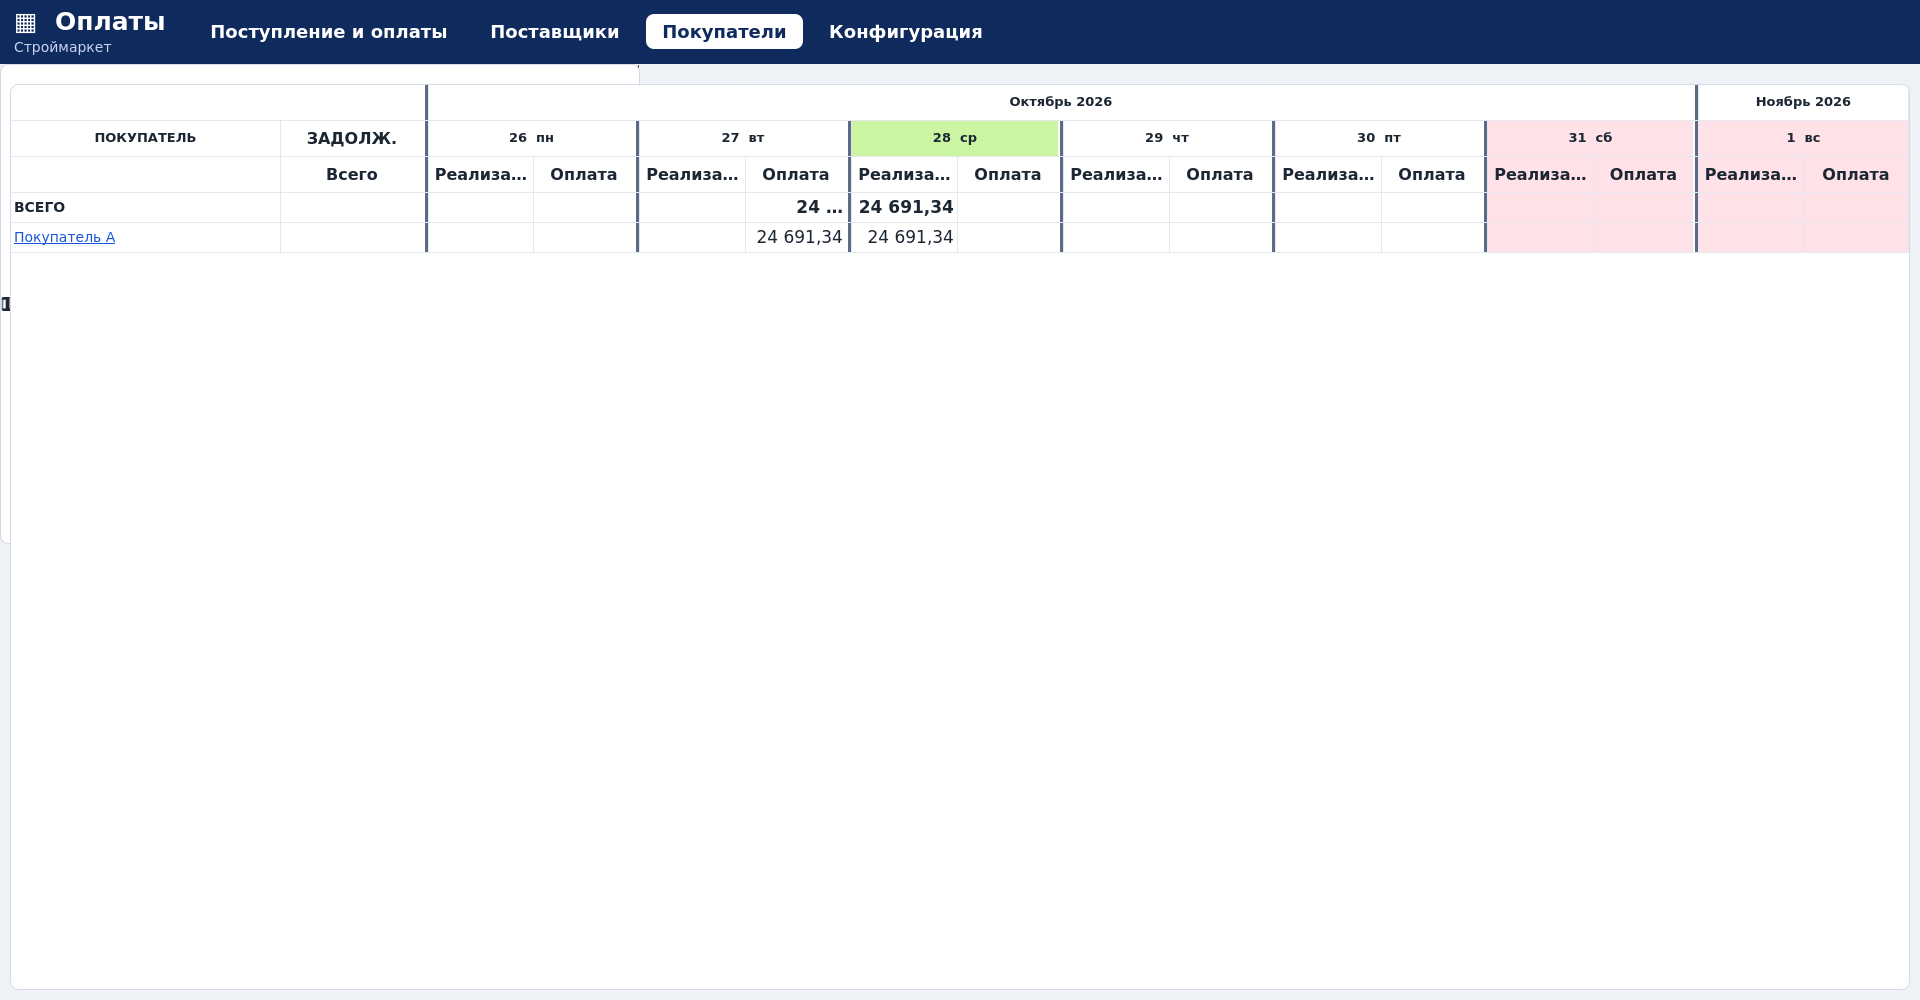
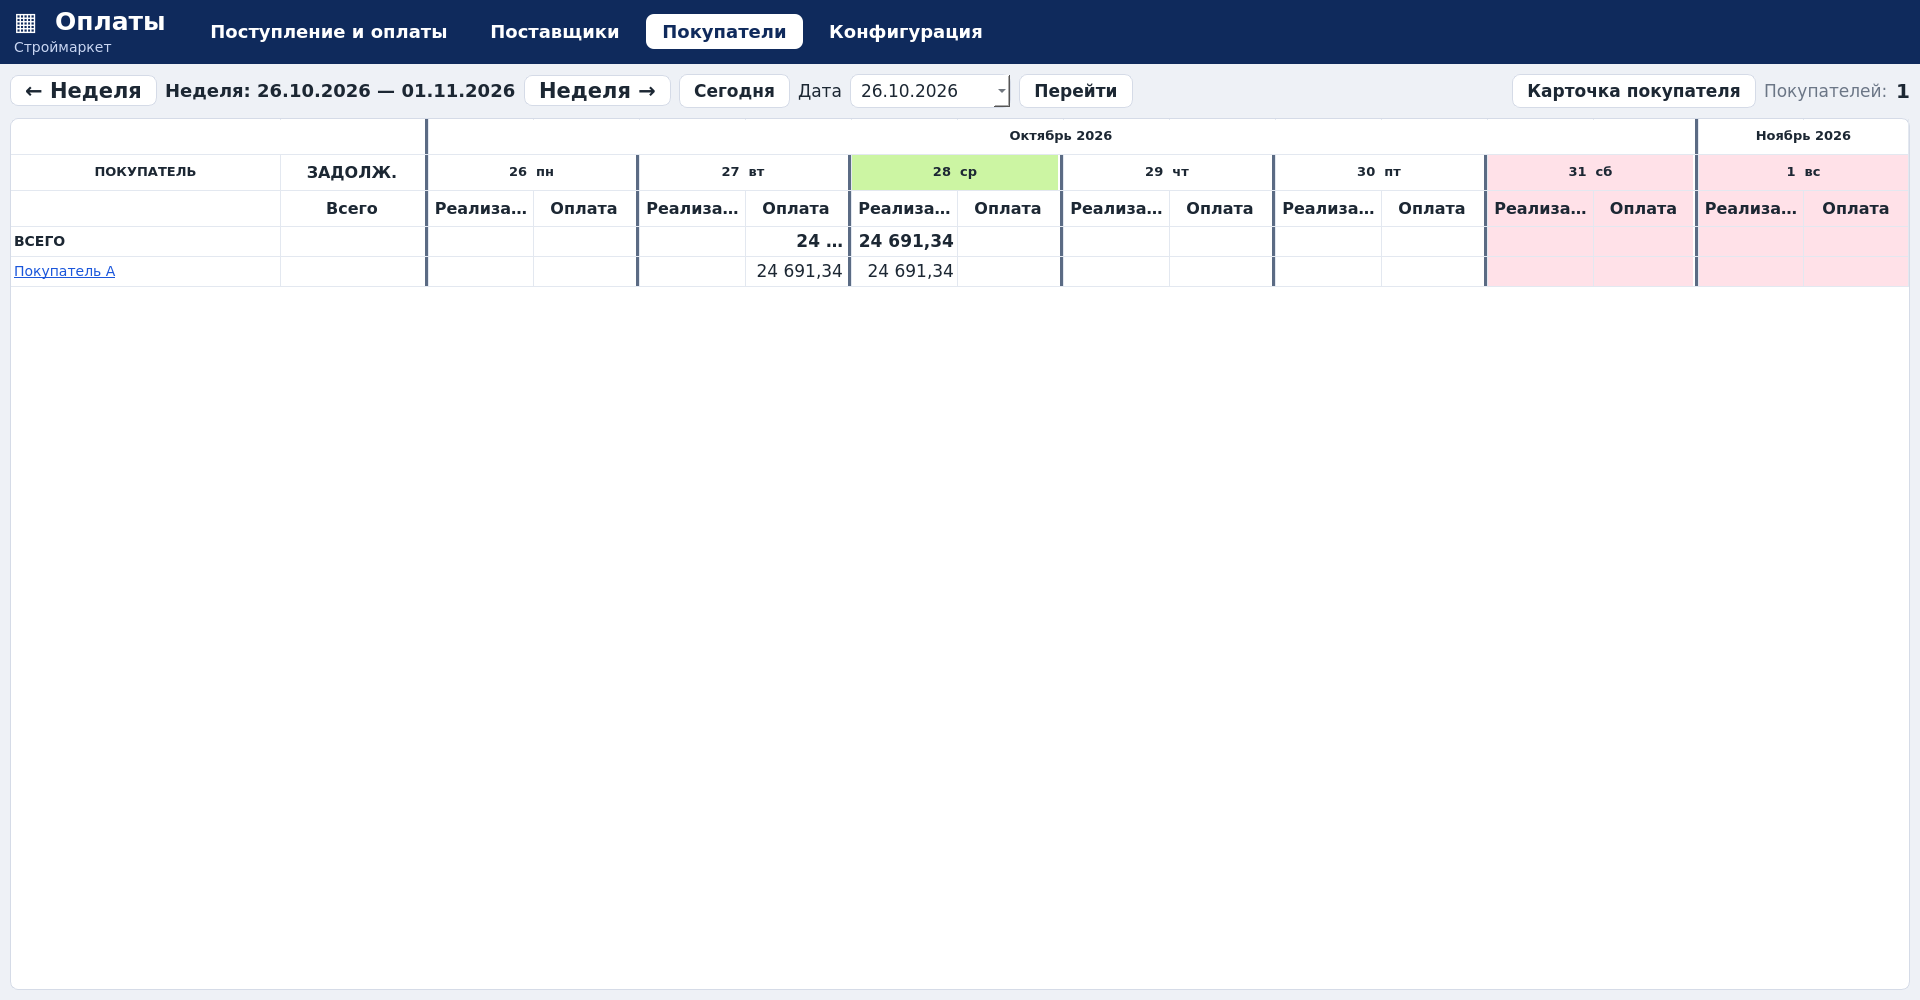
v0.16.0: убраны артефакты отрисовки — тулбар снова на обычной раскладке

diff --git a/src/oplata/widgets.py b/src/oplata/widgets.py
@@ -4,14 +4,12 @@ from __future__ import annotations
 
 from decimal import Decimal, InvalidOperation
 
-from PySide6.QtCore import QDate, QEvent, QObject, QPoint, QRect, QSize, Qt, QTimer
+from PySide6.QtCore import QDate, QEvent, QObject, Qt, QTimer
 from PySide6.QtGui import QColor, QFocusEvent
 from PySide6.QtWidgets import (
     QDateEdit,
     QFrame,
     QLabel,
-    QLayout,
-    QLayoutItem,
     QLineEdit,
     QPushButton,
     QSizePolicy,
@@ -276,87 +274,6 @@ def arrow_button(
 
 
 # ------------------------------------------------------- подсветка строки
-class FlowLayout(QLayout):
-    """Раскладка «переносом по строкам» — как текст в абзаце.
-
-    Нужна тулбару недельной таблицы (v0.15.0): кнопок и подписей там
-    много, и при узком окне они должны переноситься на следующую
-    строку, а не уезжать за край.
-    """
-
-    def __init__(self, parent=None, spacing: int = 8) -> None:
-        super().__init__(parent)
-        self.setSpacing(spacing)
-        self._items: list[QLayoutItem] = []
-
-    # --- обязательные методы QLayout ---
-    def addItem(self, item):
-        self._items.append(item)
-
-    def count(self):
-        return len(self._items)
-
-    def itemAt(self, index):
-        if 0 <= index < len(self._items):
-            return self._items[index]
-        return None
-
-    def takeAt(self, index):
-        if 0 <= index < len(self._items):
-            return self._items.pop(index)
-        return None
-
-    def expandingDirections(self):
-        return Qt.Orientation(0)
-
-    def hasHeightForWidth(self):
-        return True
-
-    def heightForWidth(self, width):
-        return self._layout(QRect(0, 0, width, 0), apply_geometry=False)
-
-    def setGeometry(self, rect):
-        super().setGeometry(rect)
-        self._layout(rect, apply_geometry=True)
-
-    def sizeHint(self):
-        return self.minimumSize()
-
-    def minimumSize(self):
-        size = QSize()
-        for item in self._items:
-            size = size.expandedTo(item.minimumSize())
-        margins = self.contentsMargins()
-        return size + QSize(
-            margins.left() + margins.right(), margins.top() + margins.bottom()
-        )
-
-    # --- раскладка ---
-    def _layout(self, rect, apply_geometry):
-        margins = self.contentsMargins()
-        available = QRect(rect)
-        available.adjust(
-            margins.left(), margins.top(), -margins.right(), -margins.bottom()
-        )
-        x, y = available.x(), available.y()
-        row_height = 0
-        spacing = self.spacing()
-        for item in self._items:
-            widget = item.widget()
-            if widget is not None and not widget.isVisible():
-                continue
-            hint = item.sizeHint()
-            if x > available.x() and x + hint.width() > available.right() + 1:
-                x = available.x()
-                y += row_height + spacing
-                row_height = 0
-            if apply_geometry:
-                item.setGeometry(QRect(QPoint(x, y), hint))
-            x += hint.width() + spacing
-            row_height = max(row_height, hint.height())
-        return y + row_height - rect.y() + margins.bottom()
-
-
 class RowHoverMixin:
     """Рисует бежевую подсветку **всей строки** под курсором (v0.13.0).
 

diff --git a/src/oplata/views/week_view.py b/src/oplata/views/week_view.py
@@ -69,7 +69,6 @@ from ..models import (
 from ..storage import DataStore
 from ..widgets import (
     AmountLineEdit,
-    FlowLayout,
     danger_button,
     date_edit_value,
     make_date_edit,
@@ -251,11 +250,13 @@ class WeekView(QWidget):
         self.refresh()
 
     # ------------------------------------------------------------------ UI
-    def _build_toolbar(self) -> FlowLayout:
-        # Тулбар переносится по строкам (v0.15.0): кнопок и подписей
-        # много, и при узком окне они уходят на следующую строку, а не
-        # за край окна.
-        bar = FlowLayout(spacing=8)
+    def _build_toolbar(self) -> QHBoxLayout:
+        # Обычная горизонтальная раскладка, как в v0.15.0: самописный
+        # перенос по строкам (FlowLayout) оставлял за таблицей
+        # негерерисованные «призраки» кнопок (v0.16.0 — возвращено).
+        # Кнопки «← Неделя»/«Неделя →» при этом широкие, по тексту.
+        bar = QHBoxLayout()
+        bar.setSpacing(8)
 
         self.prev_week_btn = arrow_button("← Неделя", "Неделя назад")
         self.prev_week_btn.clicked.connect(lambda: self._shift_week(-7))
@@ -281,12 +282,7 @@ class WeekView(QWidget):
         go_btn.clicked.connect(self._go_to_date)
         bar.addWidget(go_btn)
 
-        # Переносимый тулбар не поддерживает растяжку: разрыв между
-        # левой группой (неделя/дата) и правой (кнопки справа) делает
-        # невидимый разделитель.
-        spacer = QLabel("")
-        spacer.setFixedWidth(24)
-        bar.addWidget(spacer)
+        bar.addStretch(1)
 
         # Кнопка карточки живёт в панели таблицы (с v0.11.0), а не в шапке
         # окна: пользователь просил перенести её слева от «Очистить суммы».

diff --git a/CHANGELOG.md b/CHANGELOG.md
@@ -18,8 +18,14 @@
   сегодня»** (данные — из столбца «на сегодня», как и раньше).
 - **Сводка: новая строка «Просроченный платеж»** — данные берутся из
   нового столбца «ПРОСРОЧЕНО» таблицы поставщиков.
+- **Убраны артефакты за таблицами**: тулбар недельной таблицы снова на
+  обычной горизонтальной раскладке (как в v0.15.0). Самописный перенос
+  по строкам оставлял за таблицей «призраки» кнопок; кнопки
+  «← Неделя»/«Неделя →» по-прежнему широкие, по тексту.
 - Сборка Windows осталась прежней, **без установщика**: как в v0.15.0,
   основной вариант — папка `Oplata` с `Oplata.exe`.
+- В CI smoke-тест запускает `Oplata.exe --self-test` уже из
+  `package-folder` — из той самой папки, которая уходит в артефакт.
 
 ## [0.15.0] — 2026-10-28 · Долги по таблицам, задолженность покупателей, стрелки
 
